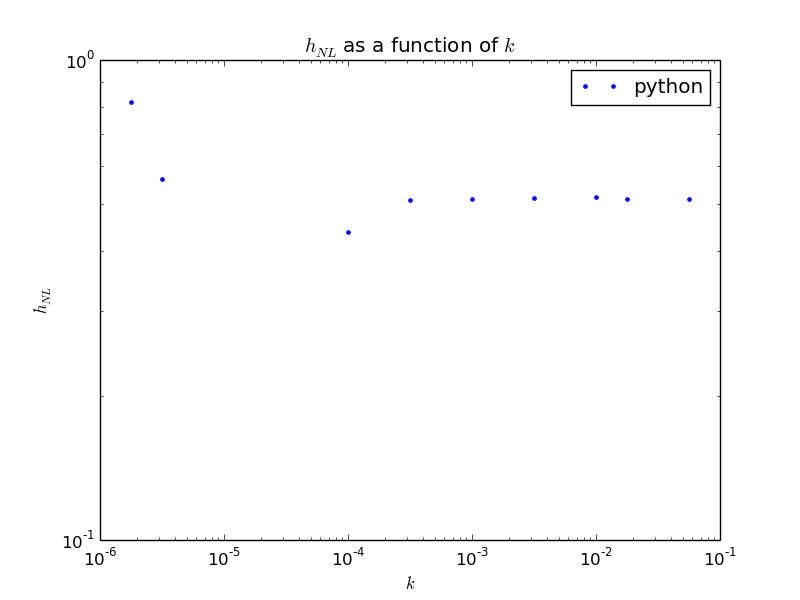
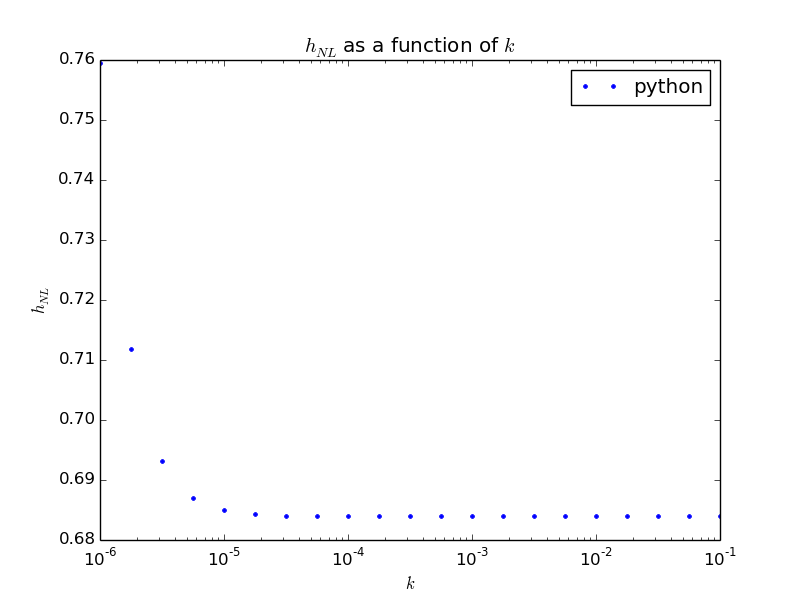
correct looking plots

diff --git a/power_law/bi-spectrum/squeezed_limit/data_files/plot.py b/power_law/bi-spectrum/squeezed_limit/data_files/plot.py
@@ -25,7 +25,7 @@ plt.ylabel(r'$-G$')
 plt.title(r'$-G$ as a function of $k$')
 #plt.ylim([0.87,0.89])
 #c, = plt.plot(h_NL_c_data[:,], h_NL_c_data[:,], '.')
-python, = plt.loglog(G_py_data[:,0], (G_py_data[:,0]**3.)*(4e-07**3.)*numpy.absolute(G_py_data[:,4]), '.')
+python, = plt.loglog(G_py_data[:,0], (G_py_data[:,0]**3.)*(5e-07**3.)*numpy.absolute(G_py_data[:,4]), '.')
 mathematica, = plt.loglog(G_m_data[:,0], numpy.absolute(G_m_data[:,1]), '--')
 #m, = plt.plot(h_NL_m_data[:,], h_NL_m_data[:,], '.')
 #plt.legend([c, python, m],['c', 'python', 'mathematica'])
